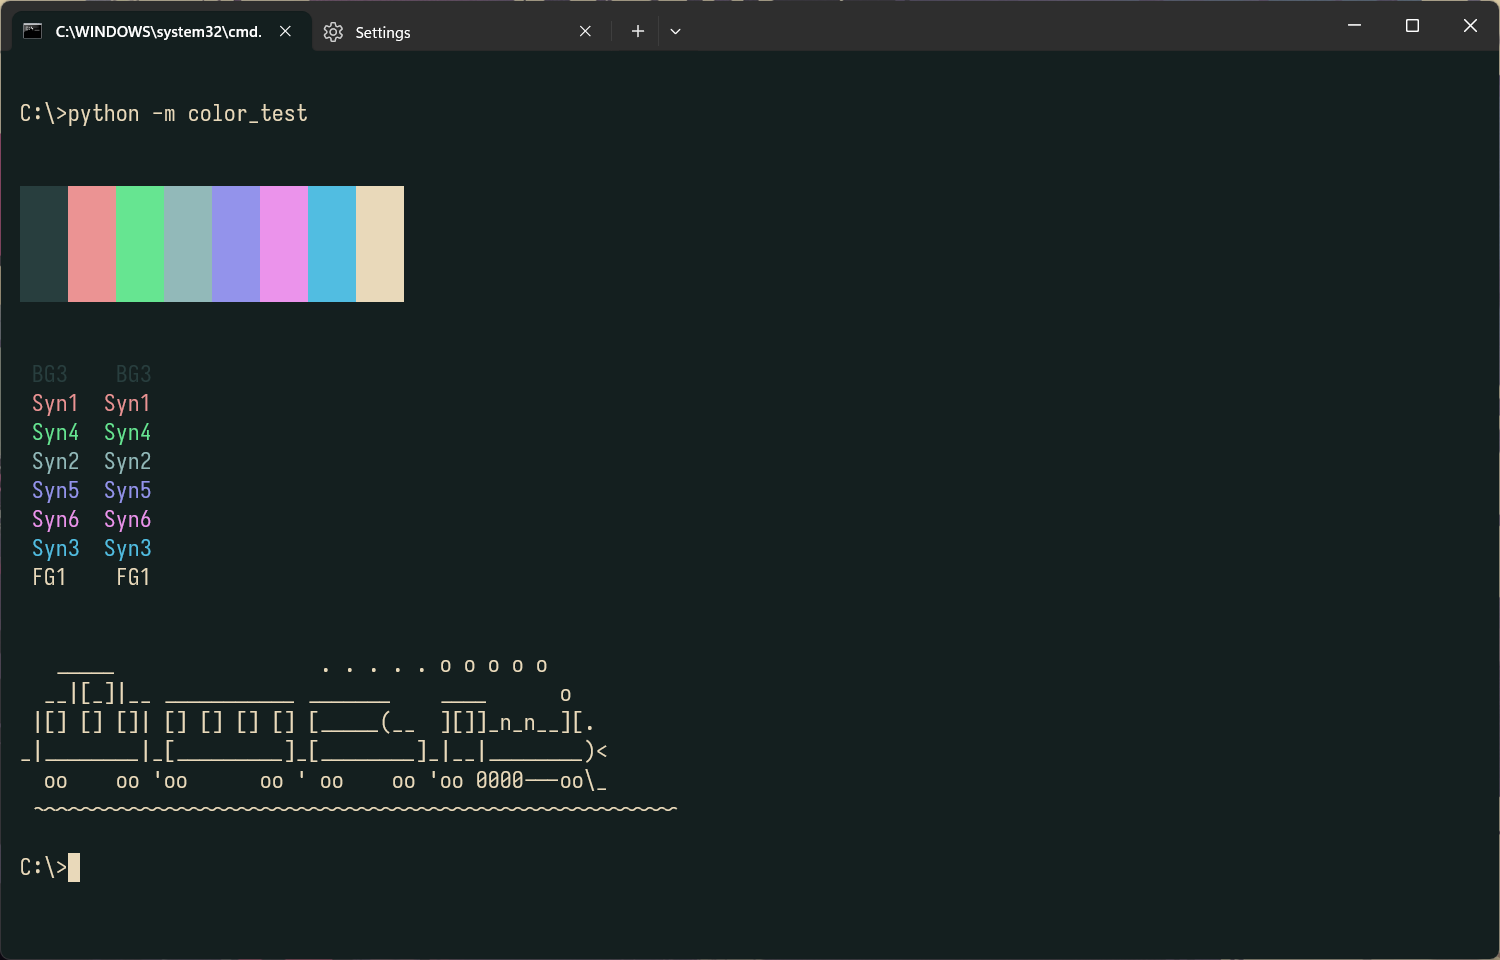
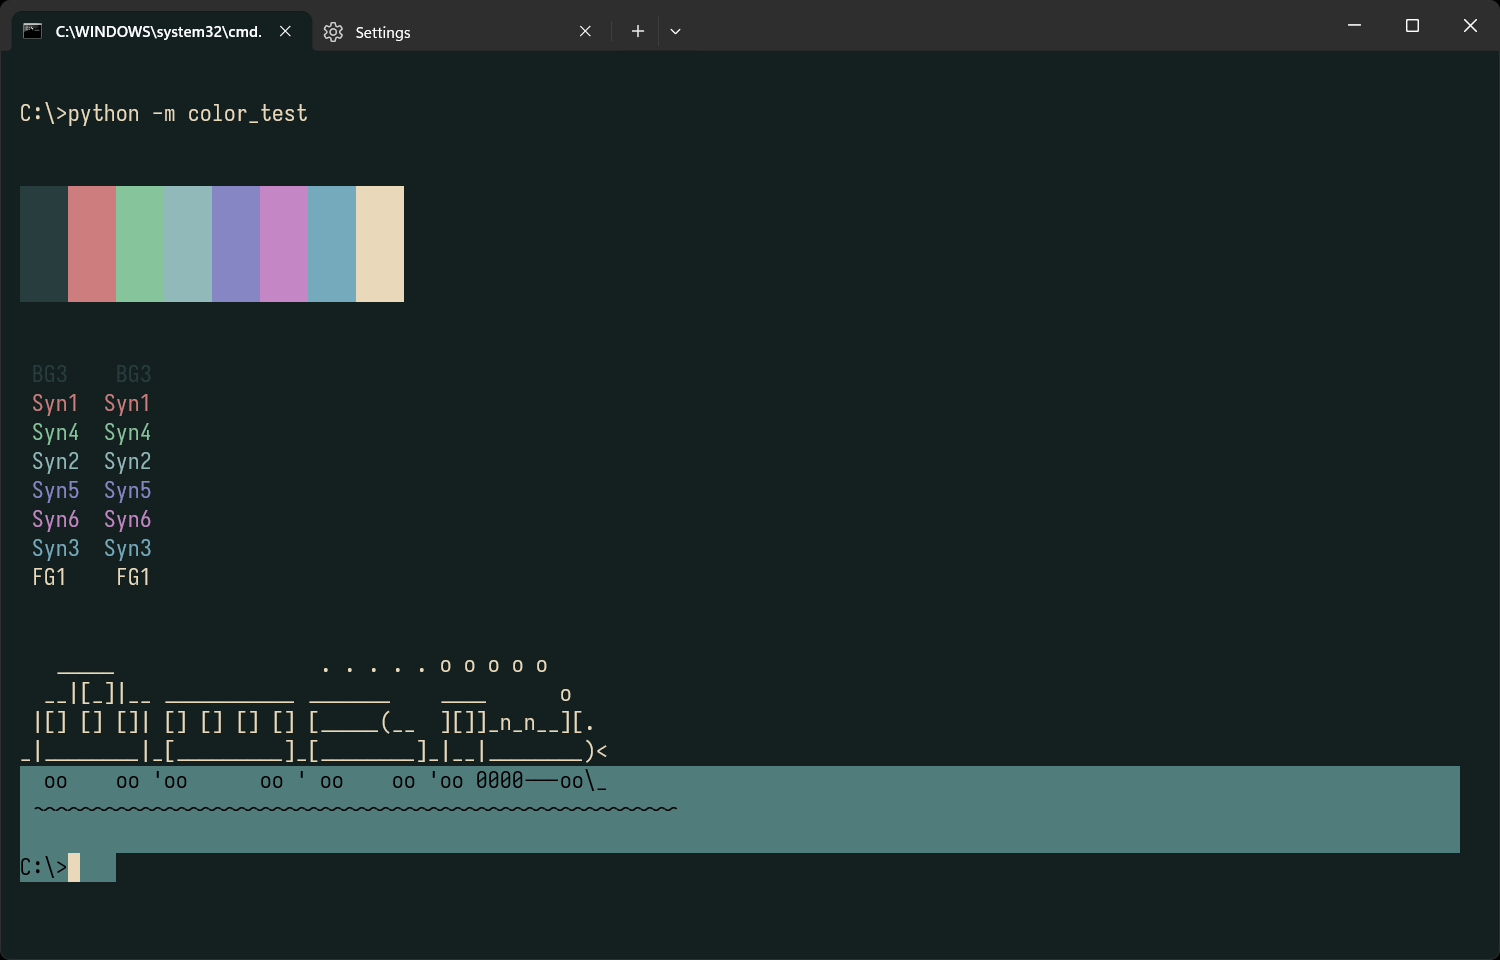
updating 20k-leagues-under-seas

Changed region(s): [[0.0, 0.7812, 0.9813, 0.9375], [0.0307, 0.1875, 0.2453, 0.3125], [0.0307, 0.5, 0.092, 0.5938]]

diff --git a/scheme_files/other/20k-leagues-under-seas.html b/scheme_files/other/20k-leagues-under-seas.html
@@ -83,8 +83,8 @@ this template is meant as a reference sheet for your color theme
 			<tr>
 				<td>syntax 1<br><a>UI: change history modified, alert, error
                 <br>SYNTAX: macro, methods, functions, symbols (question mark, shebang, etc.)<br>TERMINAL: red</a></td>
-				<td>#eb9393</td>
-				<td style="background-color:#eb9393;"></td>
+				<td>#CD7D7D</td>
+				<td style="background-color:#CD7D7D;"></td>
 			</tr>
 			<tr>
 				<td>syntax 2<br><a>UI: change history revert origin, change history revert modified, warnings
@@ -94,24 +94,24 @@ this template is meant as a reference sheet for your color theme
 			</tr>
 			<tr>
 				<td>syntax 3<br><a>SYNTAX: opertors, variables, identifiers<br>TERMINAL: cyan</a></td>
-				<td>#51bde1</td>
-				<td style="background-color:#51bde1;"></td>
+				<td>#75AABC</td>
+				<td style="background-color:#75AABC;"></td>
 			</tr>
 			<tr>
 				<td>syntax 4<br><a>UI: change history saved
                 <br>SYNTAX: conditionals, keywords, tags, commands, instructions<br>TERMINAL: green</a></td>
-				<td>#66e591</td>
-				<td style="background-color:#66e591;"></td>
+				<td>#86C49B</td>
+				<td style="background-color:#86C49B;"></td>
 			</tr>
 			<tr>
 				<td>syntax 5<br><a>SYNTAX: keys, types, class, groups, sections, preprocessor<br>TERMINAL: blue</a></td>
-				<td>#9393eb</td>
-				<td style="background-color:#9393eb;"></td>
+				<td>#8686C4</td>
+				<td style="background-color:#8686C4;"></td>
 			</tr>
 			<tr>
 				<td>syntax 6<br><a>SYNTAX: qualifier, numbers, booleans, attributes<br>TERMINAL: magenta (purple)</a></td>
-				<td>#eb93eb</td>
-				<td style="background-color:#eb93eb;"></td>
+				<td>#C486C4</td>
+				<td style="background-color:#C486C4;"></td>
 			</tr>
 		</table>
 		<br>